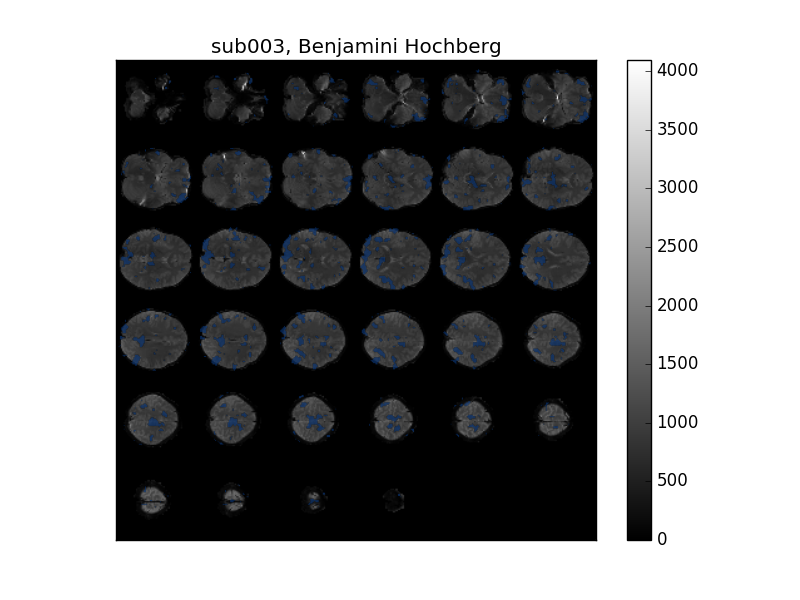
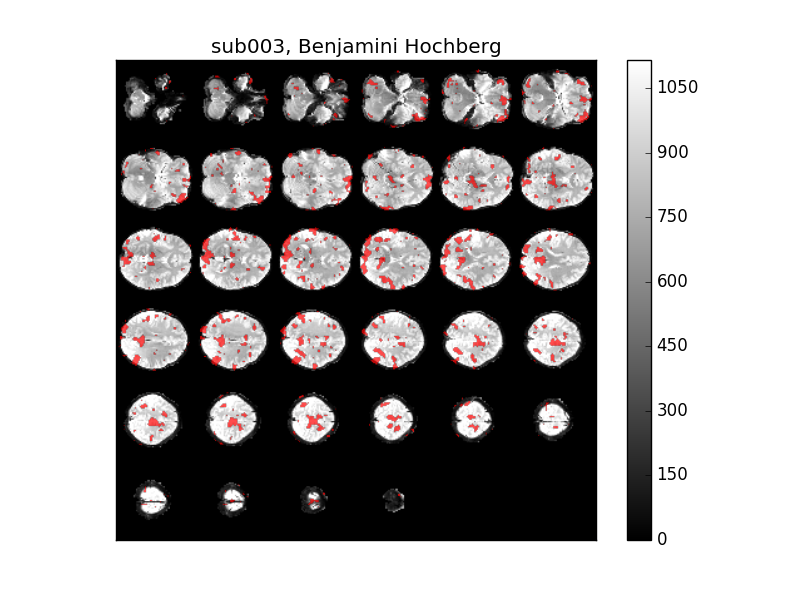
fixed the dumb blue dark image

diff --git a/final/image_scripts/image_overlay.py b/final/image_scripts/image_overlay.py
@@ -9,7 +9,7 @@ import nibabel as nib
 import os
 import sys
 
-bRIGHT= False # if you'd like to brighten up them charts
+bRIGHT= True # if you'd like to brighten up them charts
 
 project_path          = "../../"
 path_to_data          = project_path+"data/ds009/"
@@ -75,7 +75,7 @@ for i in desired_index:
     overlap=present_3d(bh_all[...,i])
     overlap[overlap==0]=np.nan
     overlap[-1,-1]=0 # to make the output correct
-    plt.imshow(overlap,cmap="Blues",alpha=.7)
+    plt.imshow(overlap,cmap="bwr",alpha=.7)
     plt.xticks([])
     plt.yticks([])
     plt.title(name+ ", Benjamini Hochberg")
@@ -96,7 +96,7 @@ for i in desired_index:
     plt.xticks([])
     plt.yticks([])
     plt.title(name+ ", t-clustering")
-    plt.imshow(overlap,cmap="Blues",alpha=.7)
+    plt.imshow(overlap,cmap="bwr",alpha=.7)
     plt.savefig("../../images/"+name+"_t_overlay.png")
     plt.close()
 
@@ -116,7 +116,7 @@ for i in desired_index:
     plt.xticks([])
     plt.yticks([])
     plt.title(name+ ", Beta-clustering")
-    plt.imshow(overlap,cmap="Blues",alpha=.7)
+    plt.imshow(overlap,cmap="bwr",alpha=.7)
     plt.savefig("../../images/"+name+"_beta_overlay.png")
     plt.close()
 
